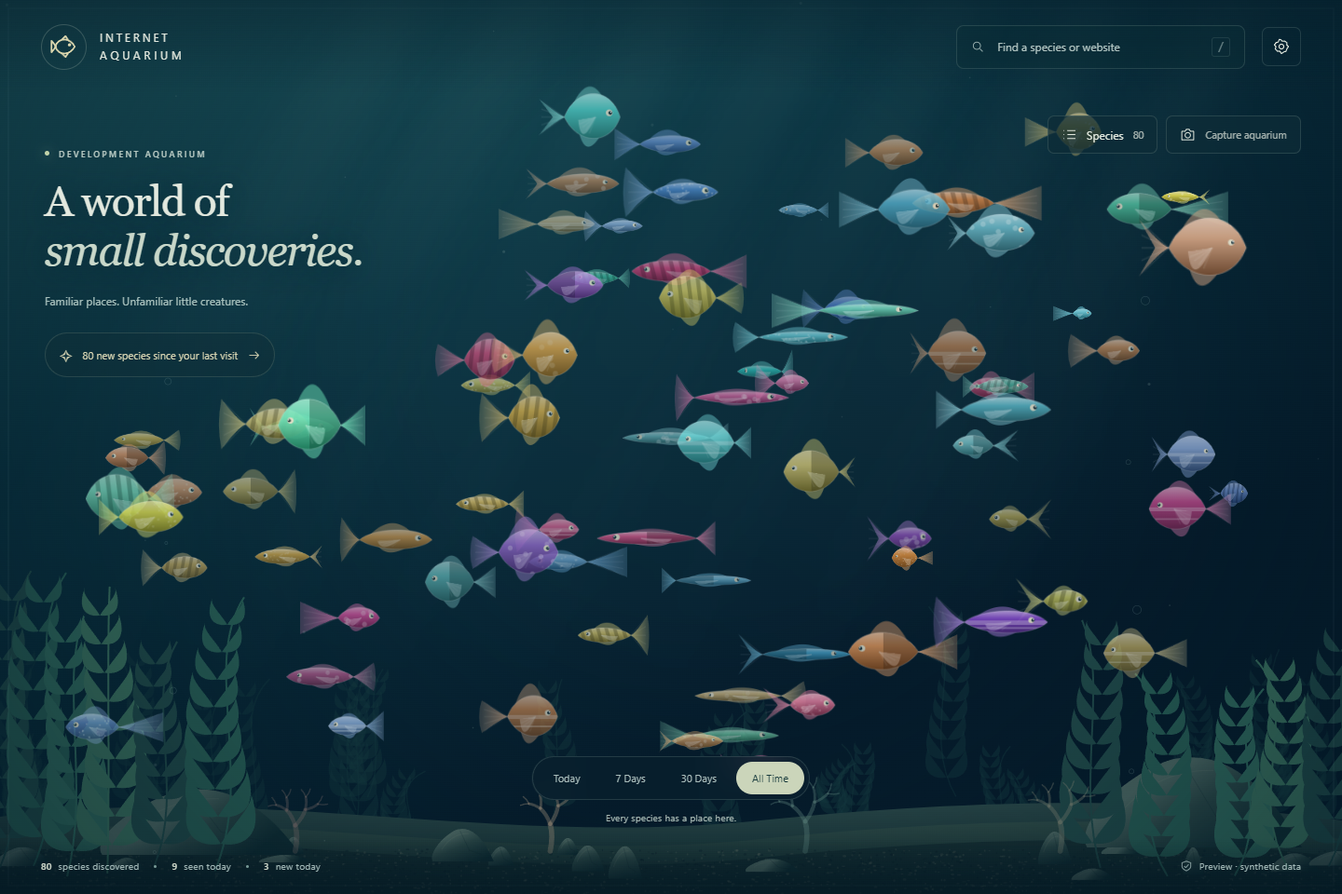
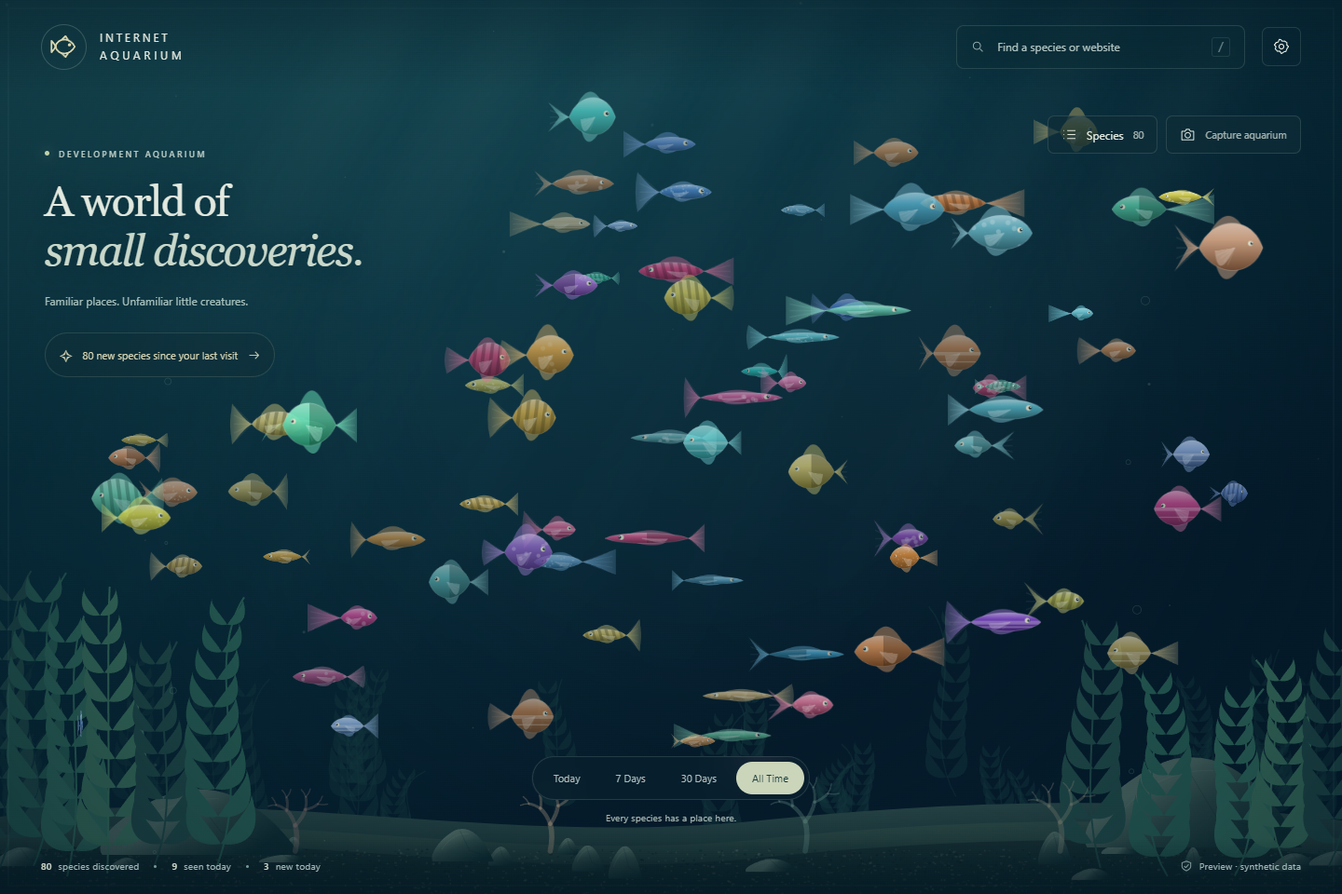
Cap visit-driven fish growth and prevent tank crowding

diff --git a/src/aquarium/AquariumScene.ts b/src/aquarium/AquariumScene.ts
@@ -1,5 +1,6 @@
 import type { AquariumData, Period, DomainRecord } from '../shared/models';
 import { periodStart } from '../shared/fish';
+import { swimmingPopulation, tankCapacity } from '../shared/population';
 import { drawFish } from './fish/paint';
 import { environment } from './environment/environment';
 import { makeActor, refreshActivity, Simulation, type Actor } from './simulation/simulation';
@@ -18,7 +19,7 @@ export class AquariumScene {
   private backgroundKey = ''; private lastMinute = -1;
   private drag: Drag | null = null;
   fps = 0;
-  constructor(private canvas: HTMLCanvasElement, private onSelect: (record: DomainRecord, locate?: boolean) => void, private onHover: (record: DomainRecord | null, x: number, y: number) => void) {
+  constructor(private canvas: HTMLCanvasElement, private onSelect: (record: DomainRecord, locate?: boolean) => void, private onHover: (record: DomainRecord | null, x: number, y: number) => void, private onPopulationChange: (count: number) => void = () => {}) {
     this.ctx = canvas.getContext('2d', { alpha: false })!;
     this.observer = new ResizeObserver(() => this.resize()); this.observer.observe(canvas);
     canvas.addEventListener('pointermove', this.move); canvas.addEventListener('pointerleave', this.leave);
@@ -31,21 +32,23 @@ export class AquariumScene {
     if (this.drag && !data.domains.some(record => record.hostname === this.drag?.hostname)) this.cancel();
     this.data = data;
     const old = new Map(this.simulation.actors.map(actor => [actor.record.hostname, actor]));
-    const sorted = [...data.domains].sort((a, b) => Number(b.hostname === this.drag?.hostname) - Number(a.hostname === this.drag?.hostname) || Number(b.hostname === this.selected) - Number(a.hostname === this.selected) || Number(b.pinned) - Number(a.pinned) || b.lastVisitedAt - a.lastVisitedAt);
-    this.simulation.actors = sorted.slice(0, data.settings.fishCount).map(record => {
+    const population = swimmingPopulation(data.domains, tankCapacity(this.width, this.height, data.settings.fishCount), this.selected, this.drag?.hostname);
+    this.simulation.actors = population.map(record => {
       const existing = old.get(record.hostname);
       if (existing && JSON.stringify(existing.record) === JSON.stringify(record)) return existing;
       const actor = makeActor(record, this.width, this.height);
       if (existing) { actor.x = existing.x; actor.y = existing.y; actor.vx = existing.vx; actor.vy = existing.vy; actor.turn = existing.turn; }
       return actor;
     }).sort((a, b) => b.depth - a.depth);
-    for (const actor of this.simulation.actors) refreshActivity(actor, this.width, data.domains.length > 200);
+    for (const actor of this.simulation.actors) refreshActivity(actor, this.width);
+    this.onPopulationChange(this.simulation.actors.length);
     this.makeBackground();
   }
   select(hostname: string | null, locate?: boolean) {
+    const changed = hostname !== this.selected;
     if (locate !== undefined || hostname !== this.selected) this.focusUntil = locate ? performance.now() + 8000 : 0;
     this.selected = hostname;
-    if (this.data && hostname && !this.simulation.actors.some(a => a.record.hostname === hostname)) this.setData(this.data);
+    if (this.data && changed) this.setData(this.data);
   }
   setPeriod(period: Period) { this.period = period; }
   capture(): Promise<Blob> { return new Promise((resolve, reject) => this.canvas.toBlob(blob => blob ? resolve(blob) : reject(new Error('Could not capture aquarium.')), 'image/png')); }
@@ -63,10 +66,11 @@ export class AquariumScene {
     const rect = this.canvas.getBoundingClientRect(); this.width = Math.max(1, rect.width); this.height = Math.max(1, rect.height);
     if (oldWidth && oldHeight) for (const actor of this.simulation.actors) {
       actor.x *= this.width / oldWidth; actor.y *= this.height / oldHeight;
-      refreshActivity(actor, this.width, (this.data?.domains.length ?? 0) > 200);
+      refreshActivity(actor, this.width);
     }
     const ratio = Math.min(devicePixelRatio || 1, 2); this.canvas.width = this.width * ratio; this.canvas.height = this.height * ratio;
     this.ctx.setTransform(ratio, 0, 0, ratio, 0, 0); this.makeBackground();
+    if (this.data) this.setData(this.data);
   }
   private hit(x: number, y: number): Actor | undefined { return [...this.simulation.actors].reverse().find(a => ((x - a.x) / (58 * a.scale)) ** 2 + ((y - a.y) / (30 * a.scale)) ** 2 < 1); }
   private position(event: PointerEvent) {
@@ -124,7 +128,7 @@ export class AquariumScene {
     const minute = Math.floor(Date.now() / 60000);
     if (minute !== this.lastMinute) {
       this.lastMinute = minute; this.makeBackground();
-      for (const actor of this.simulation.actors) refreshActivity(actor, this.width, (this.data?.domains.length ?? 0) > 200);
+      for (const actor of this.simulation.actors) refreshActivity(actor, this.width);
     }
     if (motion) this.elapsed += dt;
     const ctx = this.ctx;

diff --git a/tests/core.test.ts b/tests/core.test.ts
@@ -1,6 +1,7 @@
 import { describe, expect, it } from 'vitest';
 import { categoryFor, hashDomain, newDomain, normalizeDomain } from '../src/shared/domain';
-import { generateFish, growth, maturity, recency, periodStart } from '../src/shared/fish';
+import { generateFish, growth, MAX_GROWTH, maturity, recency, periodStart } from '../src/shared/fish';
+import { swimmingPopulation, tankCapacity } from '../src/shared/population';
 import { emptyData } from '../src/shared/models';
 import { demoData } from '../src/shared/demo';
 import { validateData } from '../src/shared/storage/schema';
@@ -32,12 +33,53 @@ describe('domain identity', () => {
 describe('growth and behaviour', () => {
   it('grows monotonically with diminishing returns and an upper bound', () => {
     const record = newDomain('github.com'); let prior = 0;
-    for (const visits of [1, 2, 10, 100, 1000, 1e9]) { const size = growth({ ...record, totalVisits: visits }); expect(size).toBeGreaterThanOrEqual(prior); expect(size).toBeLessThanOrEqual(2); prior = size; }
+    for (const visits of [1, 2, 10, 100, 1000, 1e9]) { const size = growth({ ...record, totalVisits: visits }); expect(size).toBeGreaterThanOrEqual(prior); expect(size).toBeLessThanOrEqual(MAX_GROWTH); prior = size; }
     expect(growth({ ...record, totalVisits: 10 })).toBeGreaterThan(growth(record));
+  });
+  it('caps popularity at 500 visits and does not inflate size with active time', () => {
+    const record = newDomain('github.com');
+    expect(growth({ ...record, totalVisits: 500 })).toBe(MAX_GROWTH);
+    expect(growth({ ...record, totalVisits: Number.MAX_SAFE_INTEGER })).toBe(MAX_GROWTH);
+    const longVisit = { ...record, activeTimeSeconds: 1e12 };
+    expect(growth(longVisit)).toBe(growth(record));
+    expect(growth({ totalVisits: 2 }) - growth({ totalVisits: 1 })).toBeGreaterThan(growth({ totalVisits: 101 }) - growth({ totalVisits: 100 }));
   });
   it('separates maturity from visits and increases with time', () => { expect(maturity({ activeTimeSeconds: 0 })).toBe(0); expect(maturity({ activeTimeSeconds: 600 })).toBeLessThan(maturity({ activeTimeSeconds: 60000 })); expect(maturity({ activeTimeSeconds: 1e12 })).toBe(1); });
   it('keeps older fish calm and recently visited fish active', () => { const now = Date.now(); expect(recency(now, now)).toBe(1); expect(recency(now - 150 * 86400000, now)).toBeGreaterThanOrEqual(.25); expect(recency(now, now)).toBeGreaterThan(recency(now - 86400000, now)); });
   it('uses local midnight for Today', () => { const now = new Date(2026, 8, 22, 14).getTime(); expect(periodStart('Today', now)).toBe(new Date(2026, 8, 22).getTime()); });
+});
+
+describe('crowding', () => {
+  const records = [
+    { ...newDomain('popular.example', 100), totalVisits: 200 },
+    { ...newDomain('middle.example', 200), totalVisits: 20 },
+    { ...newDomain('quiet.example', 300), totalVisits: 1, pinned: true, customName: 'Pearl' }
+  ];
+  it('removes the least visited from the tank while preserving every saved record', () => {
+    const original = structuredClone(records);
+    expect(swimmingPopulation(records, 2).map(r => r.hostname)).toEqual(['popular.example', 'middle.example']);
+    expect(records).toEqual(original);
+    const updated = records.map(r => r.hostname === 'quiet.example' ? { ...r, totalVisits: 201 } : r);
+    expect(swimmingPopulation(updated, 2).map(r => r.hostname)).toEqual(['quiet.example', 'popular.example']);
+  });
+  it('temporarily locates resting fish and keeps a held fish during updates', () => {
+    expect(swimmingPopulation(records, 2, 'quiet.example').map(r => r.hostname)).toEqual(['quiet.example', 'popular.example']);
+    expect(swimmingPopulation(records, 1, 'popular.example', 'quiet.example')[0].hostname).toBe('quiet.example');
+    expect(swimmingPopulation(records, 2).some(r => r.hostname === 'quiet.example')).toBe(false);
+  });
+  it('breaks visit ties consistently by recency then hostname', () => {
+    const tied = records.map(r => ({ ...r, totalVisits: 1, lastVisitedAt: 100 }));
+    expect(swimmingPopulation(tied, 3)).toEqual(swimmingPopulation([...tied].reverse(), 3));
+    tied[2].lastVisitedAt = 200;
+    expect(swimmingPopulation(tied, 1)[0].hostname).toBe('quiet.example');
+  });
+  it('reduces crowding on small screens and respects the configured ceiling', () => {
+    expect(tankCapacity(390, 844, 500)).toBeLessThan(tankCapacity(1440, 960, 500));
+    expect(tankCapacity(10000, 10000, 100)).toBe(100);
+    expect(tankCapacity(10000, 10000, 500)).toBe(500);
+    expect(tankCapacity(1, 1, 500)).toBe(1);
+    expect(swimmingPopulation([], 80)).toEqual([]);
+  });
 });
 describe('tracking and timing', () => {
   it('starts only after onboarding and stores summaries only', () => {

diff --git a/src/dashboard/App.tsx b/src/dashboard/App.tsx
@@ -15,9 +15,10 @@ export default function App() {
   const [panel, setPanel] = useState<'directory' | 'settings' | null>(null); const [search, setSearch] = useState(''); const [period, setPeriod] = useState<Period>('All Time');
   const [hover, setHover] = useState<{ record: DomainRecord; x: number; y: number } | null>(null); const [newCount, setNewCount] = useState(0); const [notice, setNotice] = useState(''); const [busy, setBusy] = useState(false);
   const canvas = useRef<HTMLCanvasElement>(null); const scene = useRef<AquariumScene | null>(null);
+  const [swimming, setSwimming] = useState(0);
   const select = useCallback((record: DomainRecord, locate = true) => { setSelected(record.hostname); setPanel(null); setHover(null); scene.current?.select(record.hostname, locate); }, []);
   useEffect(() => {
-    const aquarium = new AquariumScene(canvas.current!, select, (record, x, y) => setHover(record ? { record, x, y } : null)); scene.current = aquarium;
+    const aquarium = new AquariumScene(canvas.current!, select, (record, x, y) => setHover(record ? { record, x, y } : null), setSwimming); scene.current = aquarium;
     return () => { aquarium.destroy(); scene.current = null; };
   }, [select]);
   useEffect(() => {
@@ -51,7 +52,7 @@ export default function App() {
       {panel === 'settings' && <Settings data={data} run={run} close={() => setPanel(null)}/>}
       {chosen && !panel && <Detail record={chosen} close={() => setSelected(null)} pin={() => void safeRun({ type: 'pin', hostname: chosen.hostname })} rename={name => run({ type: 'rename', hostname: chosen.hostname, name })}/>}
       <div className="bottom-center"><div className="timeline" aria-label="Activity emphasis">{(['Today', '7 Days', '30 Days', 'All Time'] as Period[]).map(value => <button key={value} aria-pressed={period === value} className={period === value ? 'active' : ''} onClick={() => setPeriod(value)}>{value}</button>)}</div><span className="timeline-hint">{period === 'All Time' ? 'Every species has a place here.' : 'Recent visitors shine. Every fish stays.'}</span></div>
-      <footer className="statusbar"><span><strong>{data.domains.length}</strong> species discovered <i/> <strong>{data.domains.filter(d => d.lastVisitedAt >= today).length}</strong> seen today <i/> <strong>{data.domains.filter(d => d.firstVisitedAt >= today).length}</strong> new today</span><span><Icon name="shield" size={14}/>{isDemo ? 'Preview · synthetic data' : 'Only on this device'}{!data.settings.trackVisits && ' · Visits paused'}{data.domains.length > data.settings.fishCount && ` · ${data.settings.fishCount} swimming`}</span></footer>
+      <footer className="statusbar"><span><strong>{data.domains.length}</strong> species discovered <i/> <strong>{data.domains.filter(d => d.lastVisitedAt >= today).length}</strong> seen today <i/> <strong>{data.domains.filter(d => d.firstVisitedAt >= today).length}</strong> new today</span><span><Icon name="shield" size={14}/>{isDemo ? 'Preview · synthetic data' : 'Only on this device'}{!data.settings.trackVisits && ' · Visits paused'}{data.domains.length > swimming && ` · ${swimming} swimming · ${data.domains.length - swimming} resting`}</span></footer>
     </>}
     {hover && !panel && !chosen && <div className="fish-tooltip" style={{ left: Math.min(hover.x + 15, innerWidth - 230), top: Math.min(hover.y + 18, innerHeight - 95) }}><strong>{hover.record.customName ?? hover.record.hostname}</strong><span>{hover.record.customName && `${hover.record.hostname} · `}{generateFish(hover.record).speciesName} · {hover.record.totalVisits} visits</span><small>Drag to move · Click for details</small></div>}
     {(error || notice) && <div className={'toast ' + (error ? 'error' : '')} role={error ? 'alert' : 'status'}>{error || notice}{error && <button className="icon-button" aria-label="Dismiss error" onClick={() => setError('')}><Icon name="close" size={16}/></button>}</div>}

diff --git a/src/dashboard/components/Settings.tsx b/src/dashboard/components/Settings.tsx
@@ -11,7 +11,7 @@ export function Settings({ data, close, run }: { data: AquariumData; close: () =
   return <aside className="panel settings" aria-label="Aquarium settings"><div className="panel-heading"><span className="eyebrow">AQUARIUM SETTINGS</span><button className="icon-button" aria-label="Close settings" onClick={close}><Icon name="close"/></button></div>
     <div className="settings-scroll"><h3>Tracking</h3>{toggle('trackVisits', 'Record new visits')}{toggle('trackTime', 'Approximate active time', 'Focused browser, active website tab only.')}
     <button className="text-button" disabled={busy} onClick={() => void act(async () => { if (!await requestTracking()) throw new Error('Permission was not granted. You can try again here.'); })}>Review / restore browsing permissions</button>
-    <h3>Aquarium</h3><label className="setting-row"><span>Swimming fish<small>All species remain in your directory.</small></span><select aria-label="Swimming fish limit" value={data.settings.fishCount} disabled={busy} onChange={e => void act(() => run({ type: 'settings', settings: { fishCount: Number(e.target.value) as AquariumSettings['fishCount'] } }))}><option value="100">100</option><option value="250">250</option><option value="500">Auto · up to 500</option></select></label>
+    <h3>Aquarium</h3><label className="setting-row"><span>Swimming fish<small>Fits your window. Least-visited fish rest in the directory when crowded.</small></span><select aria-label="Swimming fish limit" value={data.settings.fishCount} disabled={busy} onChange={e => void act(() => run({ type: 'settings', settings: { fishCount: Number(e.target.value) as AquariumSettings['fishCount'] } }))}><option value="100">Up to 100</option><option value="250">Up to 250</option><option value="500">Up to 500</option></select></label>
     {toggle('motion', 'Fish motion', 'Also respects your system’s reduced motion setting.')}{toggle('cursor', 'Cursor interaction')}{toggle('bubbles', 'Bubbles')}{toggle('particles', 'Water particles')}{toggle('dayNight', 'Local day / night lighting')}
     <h3>Private by nature</h3><p className="fine-print">Page titles and URL paths are never stored. Incognito is excluded. No analytics or external requests. Your browser history is never modified.</p>
     <h3>Your data</h3><div className="data-actions"><button className="secondary" disabled={busy} onClick={() => download(new Blob([JSON.stringify(data, null, 2)], { type: 'application/json' }), 'internet-aquarium.json')}>Export aquarium data</button><button className="secondary" disabled={busy} onClick={() => input.current?.click()}>Import aquarium data</button><button className="danger text-button" disabled={busy} onClick={() => setReset(true)}>Reset aquarium</button></div>

diff --git a/src/dashboard/components/Detail.tsx b/src/dashboard/components/Detail.tsx
@@ -12,7 +12,7 @@ export function Detail({ record, close, pin, rename }: { record: DomainRecord; c
     <span className="category-tag">{record.category}</span><FishName key={record.hostname} record={record} rename={rename}/>
     <dl><div><dt>Discovered</dt><dd>{date(record.firstVisitedAt)}</dd></div><div><dt>Recorded visits</dt><dd>{record.totalVisits.toLocaleString()}</dd></div><div><dt>Approx. active time</dt><dd>{duration(record.activeTimeSeconds)}</dd></div><div><dt>Last seen</dt><dd>{date(record.lastVisitedAt)}</dd></div></dl>
     <div className="maturity-label"><span>Maturity</span><span>{Math.round(maturity(record) * 100)}%</span></div><progress max="1" value={maturity(record)} aria-label="Fish maturity"/>
-    <p className="fine-print">{growth(record).toFixed(2)}× growth · A little more familiar with these waters.</p>
+    <p className="fine-print">{growth(record).toFixed(2)}× growth · More visits, a bigger fish. Always a comfortable size.</p>
     <button className={'secondary wide ' + (record.pinned ? 'pinned' : '')} onClick={pin}><Icon name="pin"/>{record.pinned ? 'Unpin fish' : 'Pin fish'}</button>
     <p className="fine-print">Browsing estimates, collected since your aquarium began.</p>
   </aside>;

diff --git a/src/aquarium/simulation/simulation.ts b/src/aquarium/simulation/simulation.ts
@@ -5,10 +5,10 @@ import { fishTexture, type FishTexture } from '../fish/paint';
 export const TUNING = { gridSize: 100, neighborLimit: 18, boundary: 90, maxDelta: .04, maxFish: 500 };
 export const viewportScale = (width: number) => Math.min(1, Math.max(.4, width / 900));
 export interface Actor { record: DomainRecord; texture: FishTexture; x: number; y: number; vx: number; vy: number; depth: number; scale: number; activity: number; phase: number; turn: number }
-export function refreshActivity(actor: Actor, width: number, compact: boolean) {
+export function refreshActivity(actor: Actor, width: number) {
   actor.activity = recency(actor.record.lastVisitedAt);
   actor.depth = actor.texture.traits.depthPreference * .6 + (1 - actor.activity) * .4;
-  actor.scale = growth(actor.record) * (.38 + (1 - actor.depth) * .26) * viewportScale(width) * (compact ? .7 : 1);
+  actor.scale = growth(actor.record) * (.38 + (1 - actor.depth) * .26) * viewportScale(width);
 }
 export function makeActor(record: DomainRecord, width: number, height: number): Actor {
   const texture = fishTexture(record); const random = seededRandom(record.fishSeed);

diff --git a/src/shared/fish.ts b/src/shared/fish.ts
@@ -30,8 +30,10 @@ export function generateFish(record: Pick<DomainRecord, 'fishSeed' | 'category'>
     bioluminescent: random() < .04, translucent: random() < .05
   };
 }
-export function growth(record: Pick<DomainRecord, 'totalVisits' | 'activeTimeSeconds'>): number {
-  return Math.min(2, .6 + Math.log1p(record.totalVisits) * .15 + Math.log1p(record.activeTimeSeconds / 60) * .07);
+export const MAX_GROWTH = 1.7;
+export function growth(record: Pick<DomainRecord, 'totalVisits'>): number {
+  // Visits grow the fish; active time affects maturity separately. Stop at 500 visits.
+  return .7 + (MAX_GROWTH - .7) * Math.min(1, Math.log1p(Math.max(0, record.totalVisits)) / Math.log1p(500));
 }
 export function maturity(record: Pick<DomainRecord, 'activeTimeSeconds'>): number { return Math.min(1, Math.log1p(record.activeTimeSeconds / 60) / Math.log1p(60 * 100)); }
 export function recency(lastVisited: number, now = Date.now()): number { return .25 + .75 * Math.exp(-Math.max(0, now - lastVisited) / (7 * 86400000)); }

diff --git a/src/shared/population.ts b/src/shared/population.ts
@@ -1,0 +1,16 @@
+import type { DomainRecord } from './models';
+
+// Leave breathing room for the artwork and controls, even on a small window.
+export function tankCapacity(width: number, height: number, limit: number): number {
+  return Math.max(1, Math.min(500, limit, Math.floor(width * Math.max(1, height - 160) / 14000)));
+}
+
+export function swimmingPopulation(records: readonly DomainRecord[], capacity: number, selected: string | null = null, held: string | null = null): DomainRecord[] {
+  return [...records].sort((a, b) =>
+    // A fish being handled or explicitly located remains available until dismissed.
+    Number(b.hostname === held) - Number(a.hostname === held) ||
+    Number(b.hostname === selected) - Number(a.hostname === selected) ||
+    b.totalVisits - a.totalVisits ||
+    b.lastVisitedAt - a.lastVisitedAt || a.hostname.localeCompare(b.hostname)
+  ).slice(0, Math.max(0, capacity));
+}

diff --git a/VALIDATION.md b/VALIDATION.md
@@ -1,27 +1,30 @@
-# V1.1 validation — September 22, 2026
+# V1.2 validation — September 22, 2026
 
 This report separates implemented behaviour from observed test evidence. The delivered extension is under `dist/`; test data/profiles/screenshots are ignored by Git.
 
 ## Passed
 
 - Strict TypeScript and production Vite build, including Manifest V3 service worker, bundled extension pages and PNG icons.
-- 27 automated logic checks covering hostname normalization/exclusions, stable hash and traits, category boundaries, monotonic bounded growth, active-time maturity, recency, local-midnight filters, tracking consent/toggle, long-gap timing exclusion, import validation, reset isolation and custom-name validation/persistence/backward compatibility.
+- 32 automated logic checks covering hostname normalization/exclusions, stable hash and traits, category boundaries, visit-driven bounded growth, active-time maturity, recency, local-midnight filters, tracking consent/toggle, long-gap timing exclusion, import validation, reset isolation, custom-name validation/persistence/backward compatibility, popularity ranking, non-destructive crowding and responsive capacity.
 - Real production build loaded unpacked in Chrome 153.0.8010.53 using an isolated profile. Onboarding rendered with no browser/host permissions before consent. No aquarium data was stored while the native permission request awaited acceptance.
 - Real Chrome history events produced fish; `www.github.com` and `github.com` merged, repeated visits accumulated, and URL paths/query tokens/page titles were absent from stored summaries.
 - Focused active-tab intervals accumulated time; a real periodic Chrome alarm persisted time without navigation; time stopped on the aquarium dashboard.
 - Custom fish names, pins, fish, onboarding and settings survived closing Chrome, reopening the same test profile and reloading the unpacked extension through CDP.
 - Turning off visit recording prevented a new domain from being added.
 - Reset removed aquarium state and returned to onboarding; Chrome history contents were compared before/after and remained identical.
-- Browser UI suite: 80 animated fish, direct swimming-fish hover/click, search/detail selection, persistent pin toggle, period emphasis, PNG and JSON downloads, 500 active fish, a 2,000-record directory with search locating a fish outside the initial rendered set, reset confirmation/cancel, import replacement, popup, 390×844 layout and mobile onboarding bounds.
+- Browser UI suite: 80 animated fish, direct swimming-fish hover/click, search/detail selection, persistent pin toggle, period emphasis, PNG and JSON downloads, automatic crowding with 500 records, a 2,000-record directory with search locating a fish outside the initial rendered set, reset confirmation/cancel, import replacement, popup, 390×844 layout and mobile onboarding bounds.
+- Popularity update: the actual renderer grows the same fish with visits and stops at the cap even with one billion visits. With 500 saved records, the 82 most-visited fish swim at 1440×960; resizing to 390×844 reduces this to 19 without deleting records. Tests verify newly popular fish return, names survive, resting fish can be located, and dismissal restores the popularity ranking.
 - Fish interaction update: actual mouse dragging at DPR 2, held-fish stability while other fish swim, dragging across a record update, release without recentering, continued swimming after release, containment at tank boundaries, release outside the canvas, emulated touch dragging/cancellation, reduced-motion and paused-motion dragging, reset during a drag. This is automated browser pointer-input evidence, not a physical touchscreen test.
 - Naming UI: save, search by nickname, reload, cancel with Escape, clear back to species name, export/import retention and popup display. Selection now uses a soft silhouette glow, visually reviewed without the old circle.
 - Desktop, fish-detail and mobile/onboarding screenshots were inspected. A mobile onboarding positioning bug found in visual review was corrected and guarded by a browser assertion.
-- The 500-fish renderer has measured **45–66 FPS at 1440×960, DPR 1** across local headless Chrome runs, including the interaction update. These are variable local samples, not a guarantee of 60 FPS on all desktops or displays. All historical records remain available when simulation is capped.
+- Before automatic crowding, the V1.1 renderer measured **45–66 FPS with 500 fish at 1440×960, DPR 1** in local headless Chrome runs. V1.2 caps that viewport at 82 fish; the latest current-population sample is recorded as `fpsCrowded` in `docs/browser-report.json`. These are local samples, not a guarantee of 60 FPS. All historical records remain available when simulation is capped.
 - Runtime source contains no fetch, XMLHttpRequest, WebSocket or beacon calls. The production manifest has no host permissions or content scripts, excludes incognito and sets `connect-src 'none'`.
 
 ## Test boundary
 
 Native Chrome permission dialogs are outside Playwright's page automation. The real production welcome page and pre-consent state were tested, but clicking the native **Allow / Deny** buttons was not automated. Tracking tests use an isolated copy with `history` and `tabs` moved from optional to required permissions in that copy only. Its worker and UI bundles are identical to production. This does **not** claim end-to-end native optional-permission acceptance was tested.
+
+The tracking, permission and browser-restart evidence above was collected for V1.1. V1.2 changes presentation and population selection; the production build, logic and browser UI suites were rerun. Tracking and persistence code is unchanged.
 
 All test website navigations were locally fulfilled HTML fixtures under normal HTTPS hostnames. No personal browsing history was read or modified, and no test was run in the user's daily browser profile. The real toolbar's popup-opening affordance was not clicked; the bundled popup page was exercised directly.
 

diff --git a/README.md b/README.md
@@ -69,11 +69,11 @@ New browser history events + focused active tab
 
 - Stable domain hash and seeded random generation determine permanent traits. Eight body families, six tail types, three fin styles, seven patterns, colours, fictional names and rare cosmetic glow/translucency provide variety.
 - A small bundled category map subtly influences body families and behaviour. Unknown sites use `Other`. No classification request leaves the device.
-- Size follows `min(2, 0.6 + log1p(visits) × 0.15 + log1p(activeMinutes) × 0.07)`. Diminishing returns prevent unlimited growth.
+- Size follows `0.7 + min(1, log1p(visits) / log1p(500))`: recorded visits drive growth, with diminishing returns and a firm 1.7× cap reached at 500 visits. Active time affects maturity separately.
 - Maturity follows accumulated active time separately and adds fin/tail detail without changing species.
 - Recency smoothly decays activity toward a calm floor. It never kills fish or implies poor health.
 - A spatial grid bounds neighbour checks at 18 per fish. Separation, weak alignment/cohesion, wander, smooth boundary steering and trait-dependent cursor response keep movement varied. Fish artwork is cached; React does not render individual swimming fish.
-- Up to 500 fish swim at once (100/250 are selectable). Priority is selected fish, pinned fish, then recent visitors. All records remain in the searchable, paginated directory. Selecting an unrendered species brings it into the simulation. Large populations use smaller presentation scales.
+- The tank automatically makes room based on its window size: one fish per 14,000 square pixels after reserving 160px of height for controls, up to the selected ceiling of 100/250/500. At 1440×960 this allows 82 fish; at 390×844 it allows 19. Least-visited fish leave the swimming population first. Ties prefer more recent visits, then hostname. Every record, name and pin stays in the searchable directory. Selecting a resting fish temporarily brings it into the tank; closing its details restores the popularity ranking. Held fish stay available during dragging. More visits can bring a resting fish back automatically.
 - Pseudo-depth changes scale, opacity and speed. Plants, stones and coral gain detail with population, category variety and accumulated activity. Local time changes water lighting; rare fish glow at night.
 - Hidden pages suspend animation. Reduced-motion preferences pause motion. Low measured frame rates reduce bubbles and particles.
 
@@ -143,7 +143,7 @@ See [VALIDATION.md](VALIDATION.md) for measured results and remaining manual che
 ## V1 boundaries and next steps
 
 - Finish the native Chrome allow/deny/retry flow check and a short everyday browsing trial in your own profile. Check minimization, focus changes to another app, suspend/resume and a normal manual Chrome restart on your setup.
-- Performance depends on hardware, resolution and device pixel ratio; a universal 60 FPS is not guaranteed. Lower the fish limit if needed. The target is 500 simulated fish and thousands of retained records, not simultaneous simulation of every domain.
+- Performance depends on hardware, resolution and device pixel ratio; a universal 60 FPS is not guaranteed. The renderer supports a ceiling of 500 simulated fish and thousands of retained records; automatic crowding keeps ordinary windows well below that ceiling.
 - This version stores first/last timestamps and aggregates, not a historical timeline. Filters use last-seen timestamps; they cannot reconstruct past fish size.
 - Long-term appearance is implemented from saved aggregates and synthetic old records, but a multi-day real-world soak is still needed.
 - Storage has Chrome's normal local quota; errors are surfaced rather than silently dropping historical fish. Extremely large exports should be backed up before further collection.
